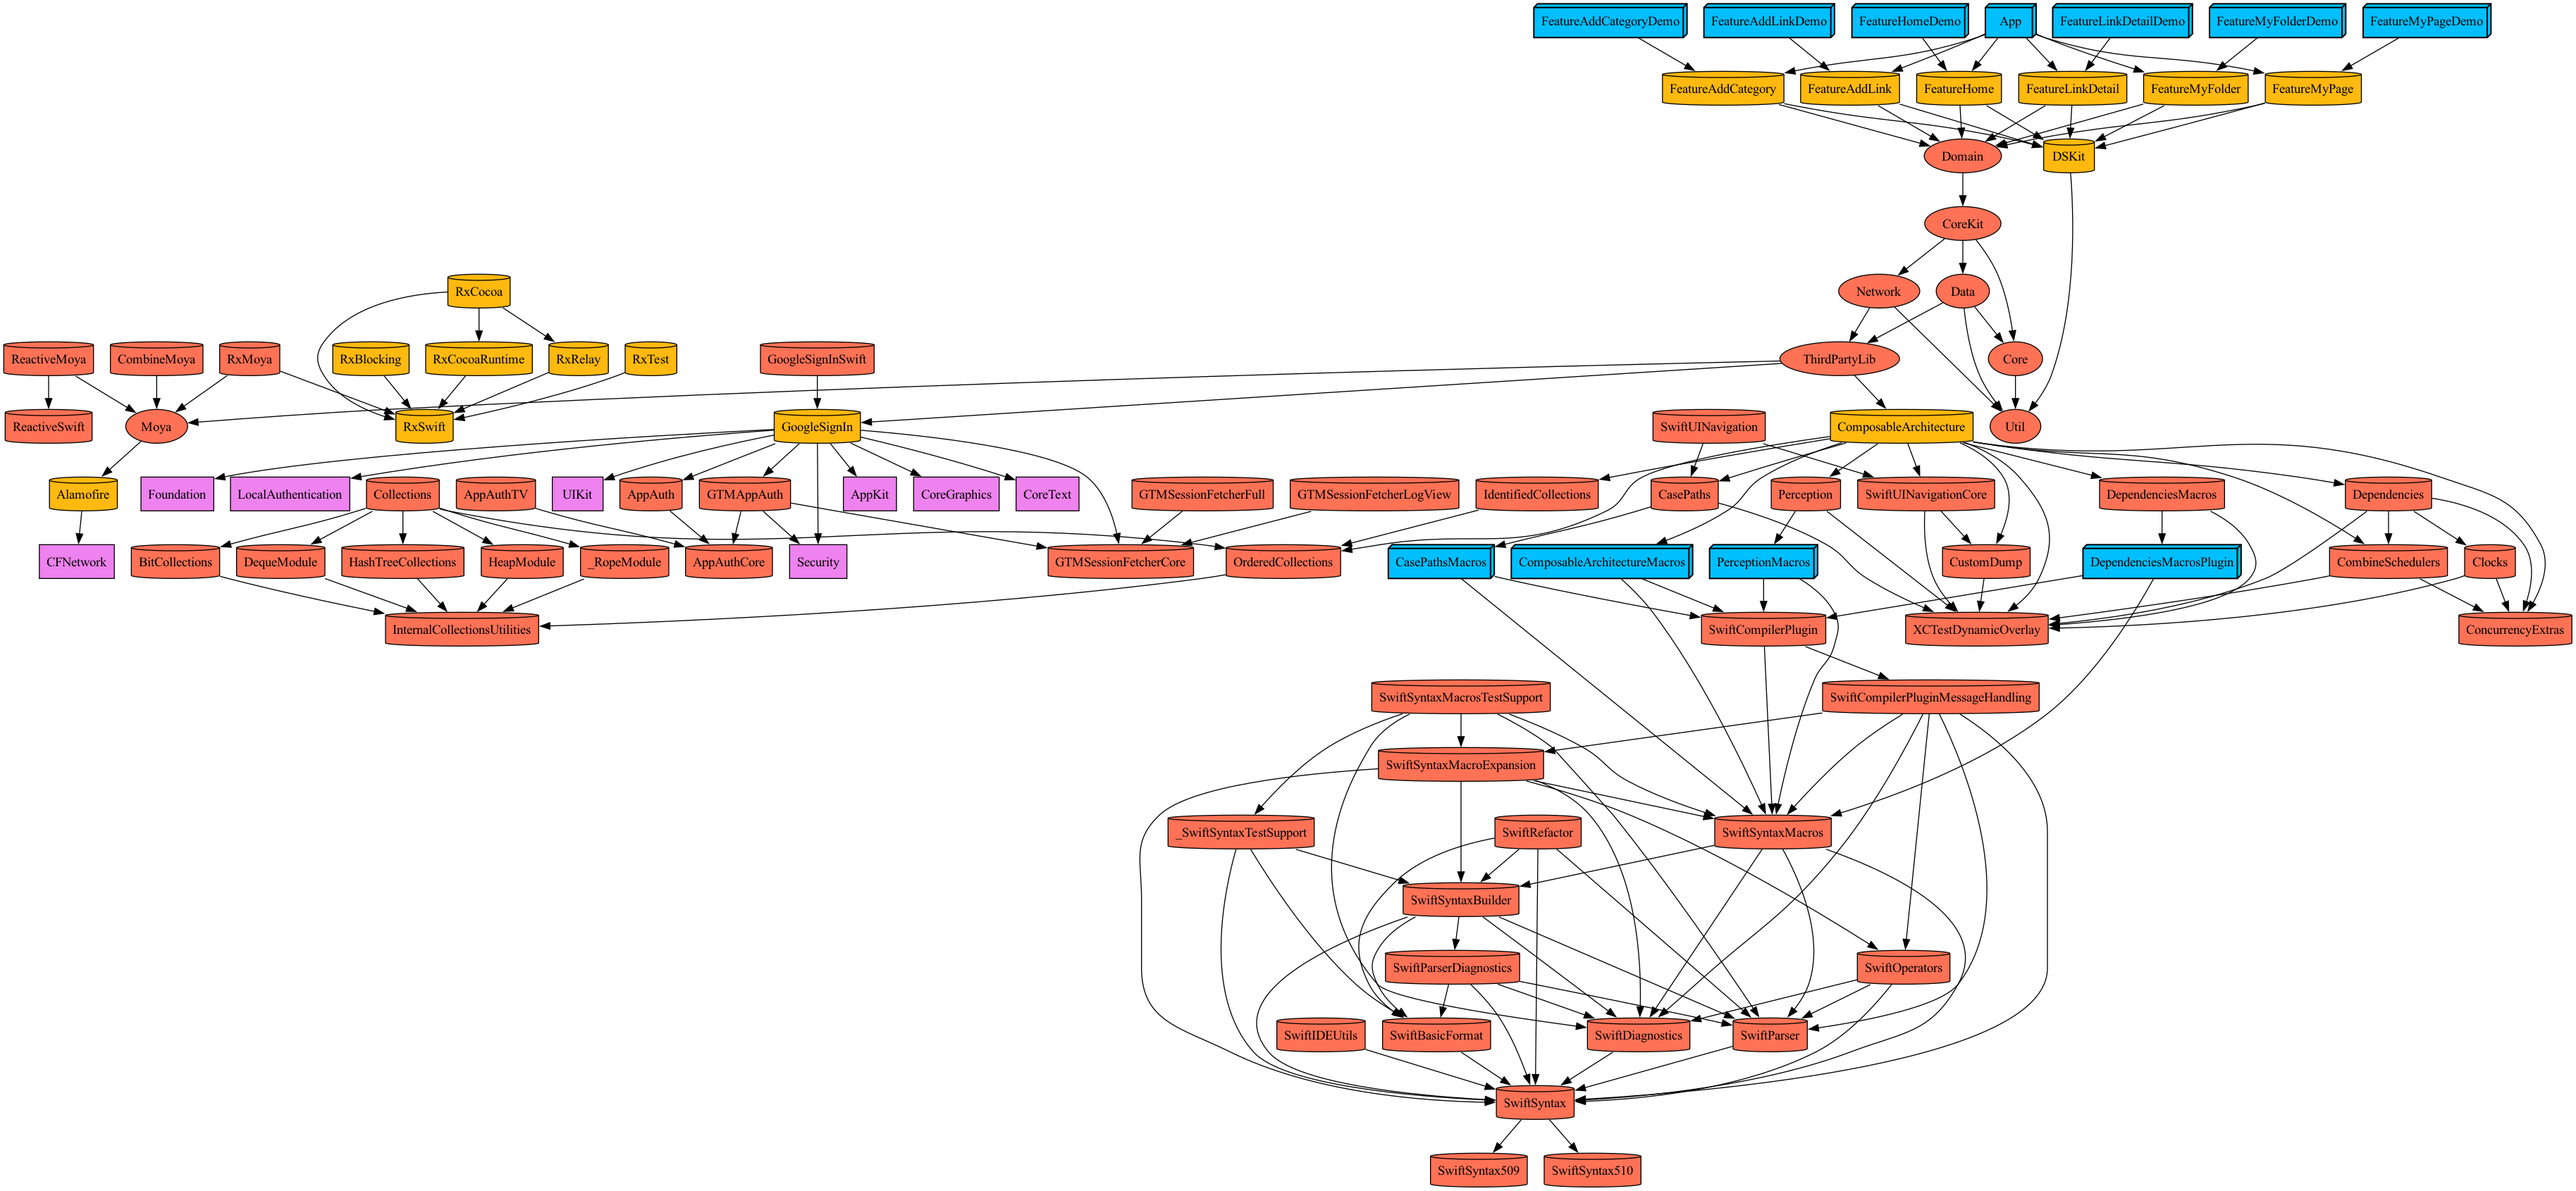
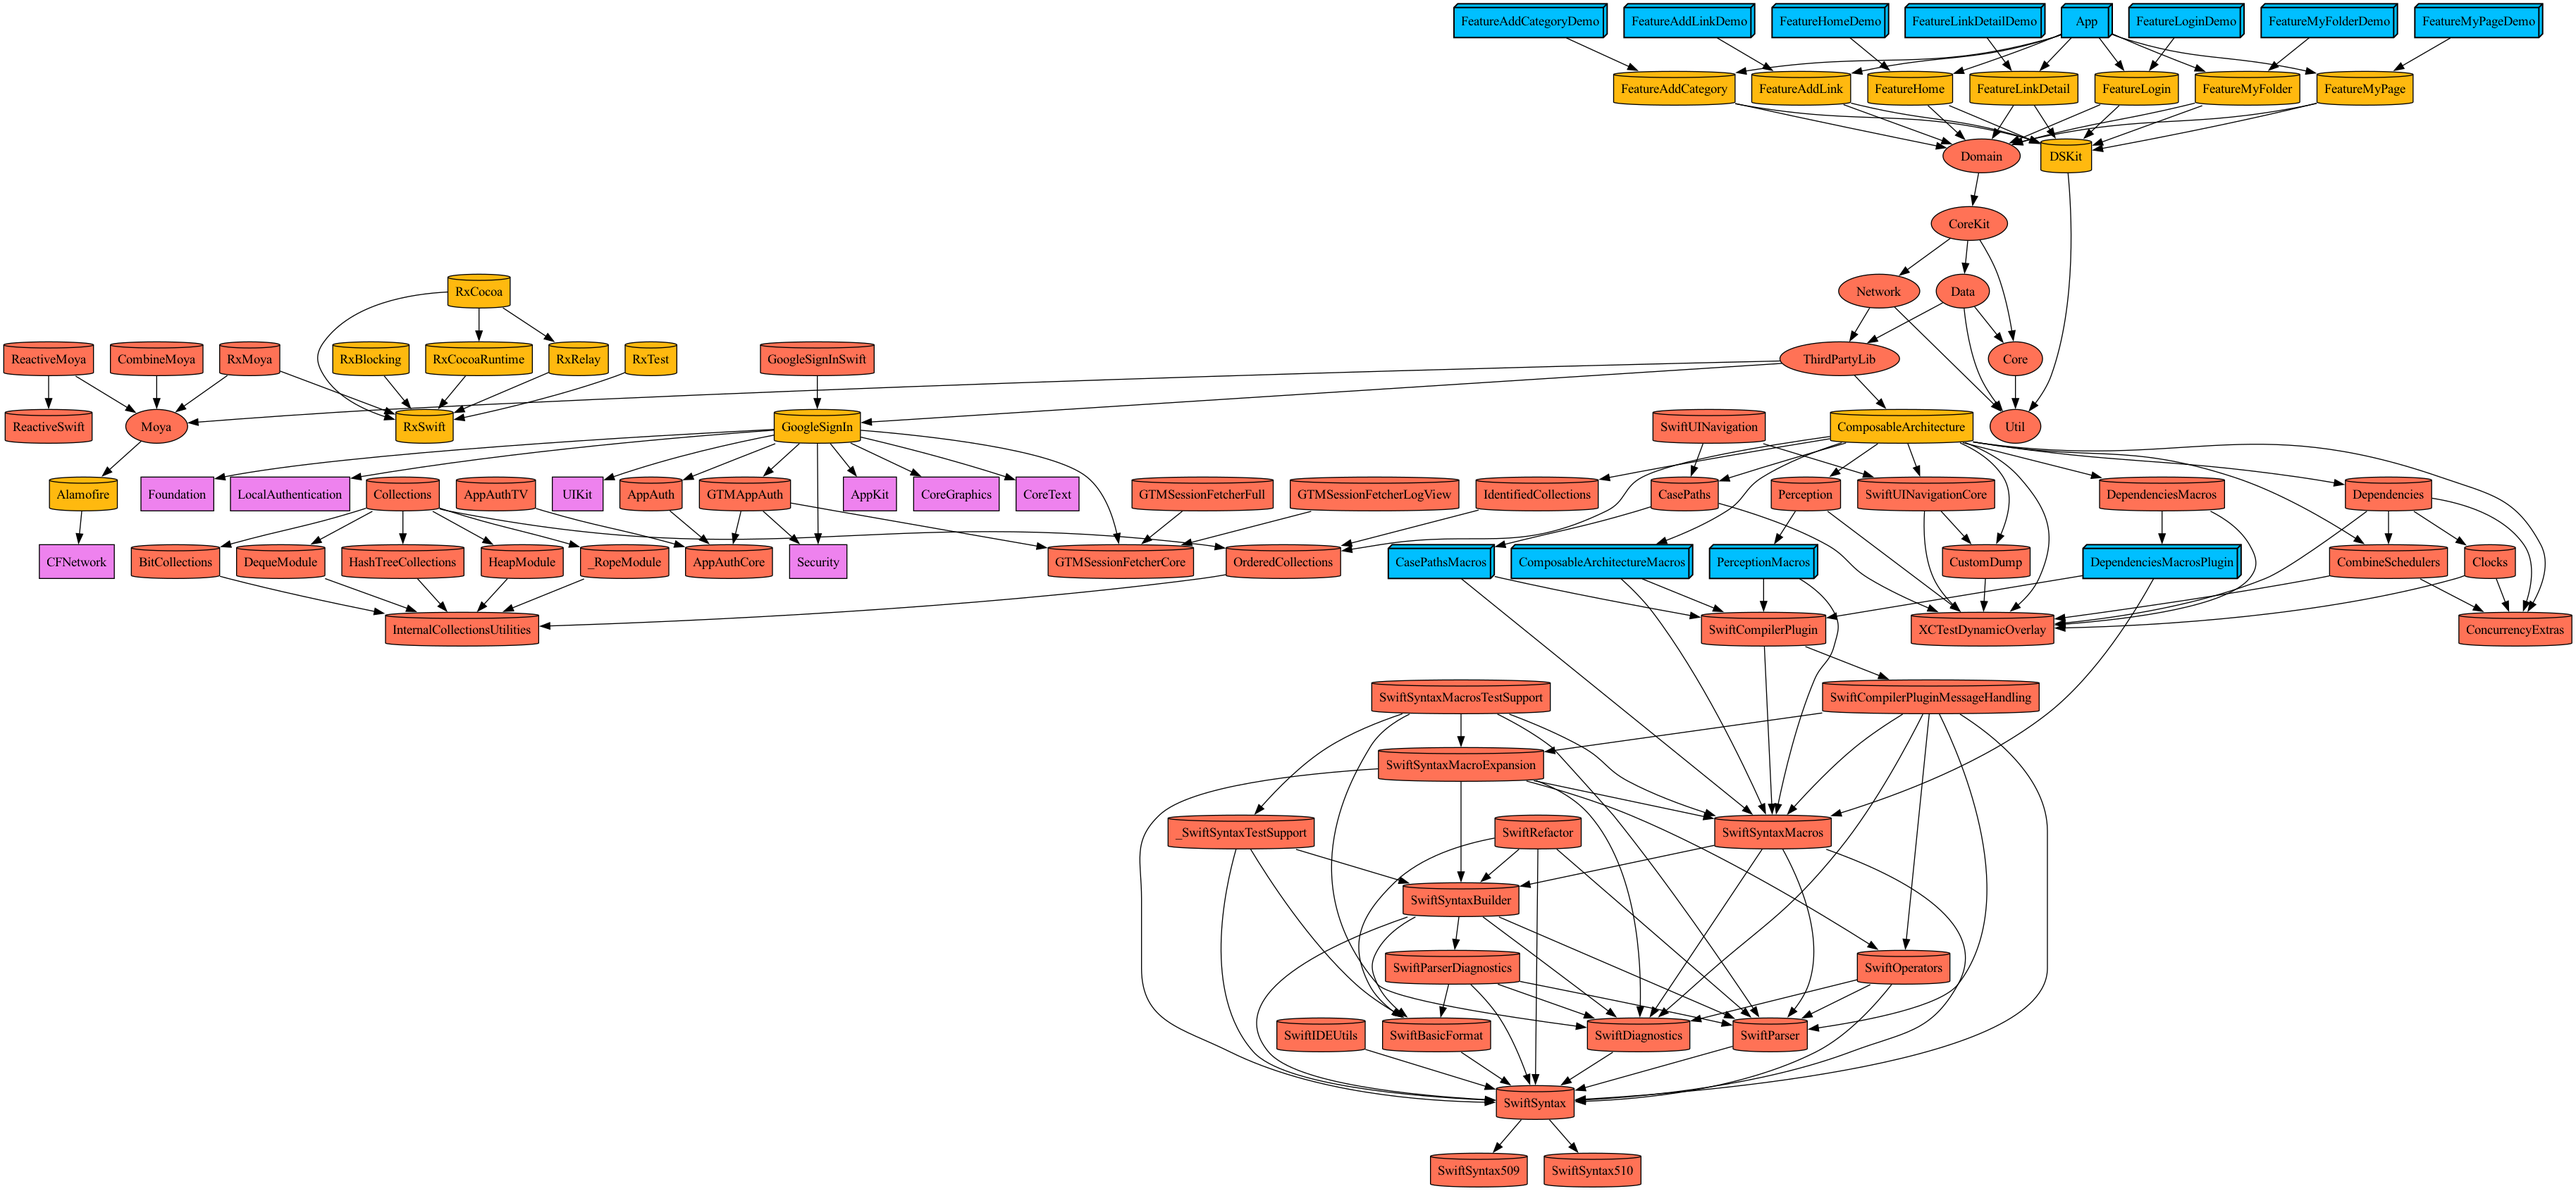
[feat] #22 FeatureLogin 폴더링 및 타겟 생성

Changed region(s): [[0.5614, 0.0, 0.9981, 0.2153], [0.7174, 0.4613, 0.8109, 0.5535]]

diff --git a/Projects/App/Project.swift b/Projects/App/Project.swift
@@ -27,7 +27,8 @@ let project = Project(
                 .project(target: "FeatureAddLink", path: .relativeToRoot("Projects/Feature")),
                 .project(target: "FeatureLinkDetail", path: .relativeToRoot("Projects/Feature")),
                 .project(target: "FeatureMyFolder", path: .relativeToRoot("Projects/Feature")),
-                .project(target: "FeatureMyPage", path: .relativeToRoot("Projects/Feature"))
+                .project(target: "FeatureMyPage", path: .relativeToRoot("Projects/Feature")),
+                .project(target: "FeatureLogin", path: .relativeToRoot("Projects/Feature"))
             ]
         )
     ]

diff --git a/Projects/Feature/FeatureLoginDemo/Sources/FeatureLoginDemoApp.swift b/Projects/Feature/FeatureLoginDemo/Sources/FeatureLoginDemoApp.swift
@@ -1,0 +1,17 @@
+//
+//  App.stencil.swift
+//  ProjectDescriptionHelpers
+//
+//  Created by 김도형 on 6/16/24.
+//
+
+import SwiftUI
+
+@main
+struct FeatureLoginDemoApp: App {
+    var body: some Scene {
+        WindowGroup {
+            // TODO: 루트 뷰 추가
+        }
+    }
+}

diff --git a/Tuist/ProjectDescriptionHelpers/Feature.swift b/Tuist/ProjectDescriptionHelpers/Feature.swift
@@ -18,6 +18,7 @@ public enum Feature: String, CaseIterable {
     case addLink = "AddLink"
     case addCategory = "AddCategory"
     case home = "Home"
+    case login = "Login"
     
     public var target: Target {
         return .makeTarget(

diff --git a/Projects/Feature/FeatureLogin/Resources/Resource.swift b/Projects/Feature/FeatureLogin/Resources/Resource.swift
@@ -1,0 +1,8 @@
+//
+//  Dummy.stencil.swift
+//  ProjectDescriptionHelpers
+//
+//  Created by 김도형 on 6/16/24.
+//
+
+import Foundation

diff --git a/Projects/Feature/FeatureLogin/Sources/Source.swift b/Projects/Feature/FeatureLogin/Sources/Source.swift
@@ -1,0 +1,8 @@
+//
+//  Dummy.stencil.swift
+//  ProjectDescriptionHelpers
+//
+//  Created by 김도형 on 6/16/24.
+//
+
+import Foundation
